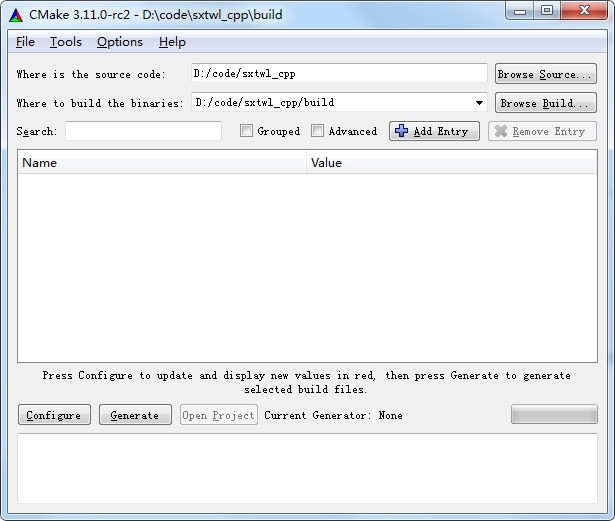
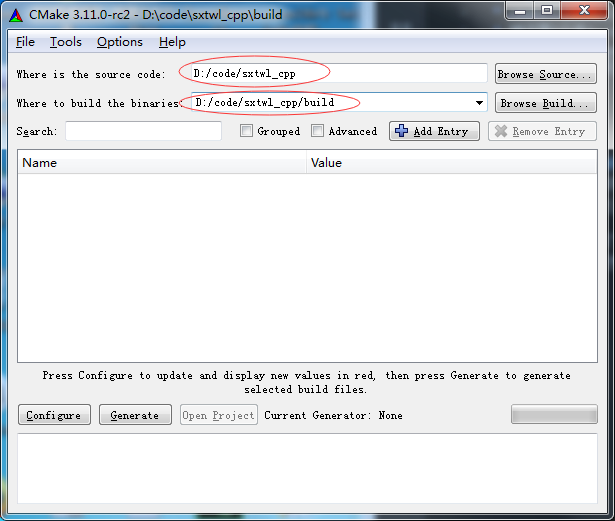
wiki完善

diff --git a/doc/如何构建.md b/doc/如何构建.md
@@ -3,8 +3,19 @@
 ### 基本环境:
 * cmake下载地址(必选)：https://cmake.org/download/
 * 编译器(必选): vs,g++,clang等支持c++11编译器即可
+* git(可选):https://git-scm.com/
 * swig下载地址(可选，如需要绑定至脚本语言时需要):  http://www.swig.org/download.html
 
-### windows平台构建方法
 
+### windows平台构建方法
+1. 使用git将下载本工程代码(如果这步不会，也可以直接下载zip代码：https://github.com/yuangu/sxtwl_cpp/archive/master.zip)
+git clone https://github.com/yuangu/sxtwl_cpp.git
+
+2. 打开cmake，在"where is ths source code"里写上您刚刚下载的代码目录。在“where to build the binaries”填上编译目录（我一般是在代码目录里加一个build子目录）。如图所示:
 ![cmake示意图](img/build.png)
+
+3. 点击左下角的 "Generate" 按钮（1），弹出一个对话框。选择您的IDE（这里选择的是VS2015）（2），按Finish关闭弹窗(3)，如图所示
+![cmake示意图2](img/windows_build2.jpg)
+
+4. 依次点击旁边的 "Configure"按钮 及 "Open Project"按钮
+![cmake示意图3](img/windows_build3.jpg)
